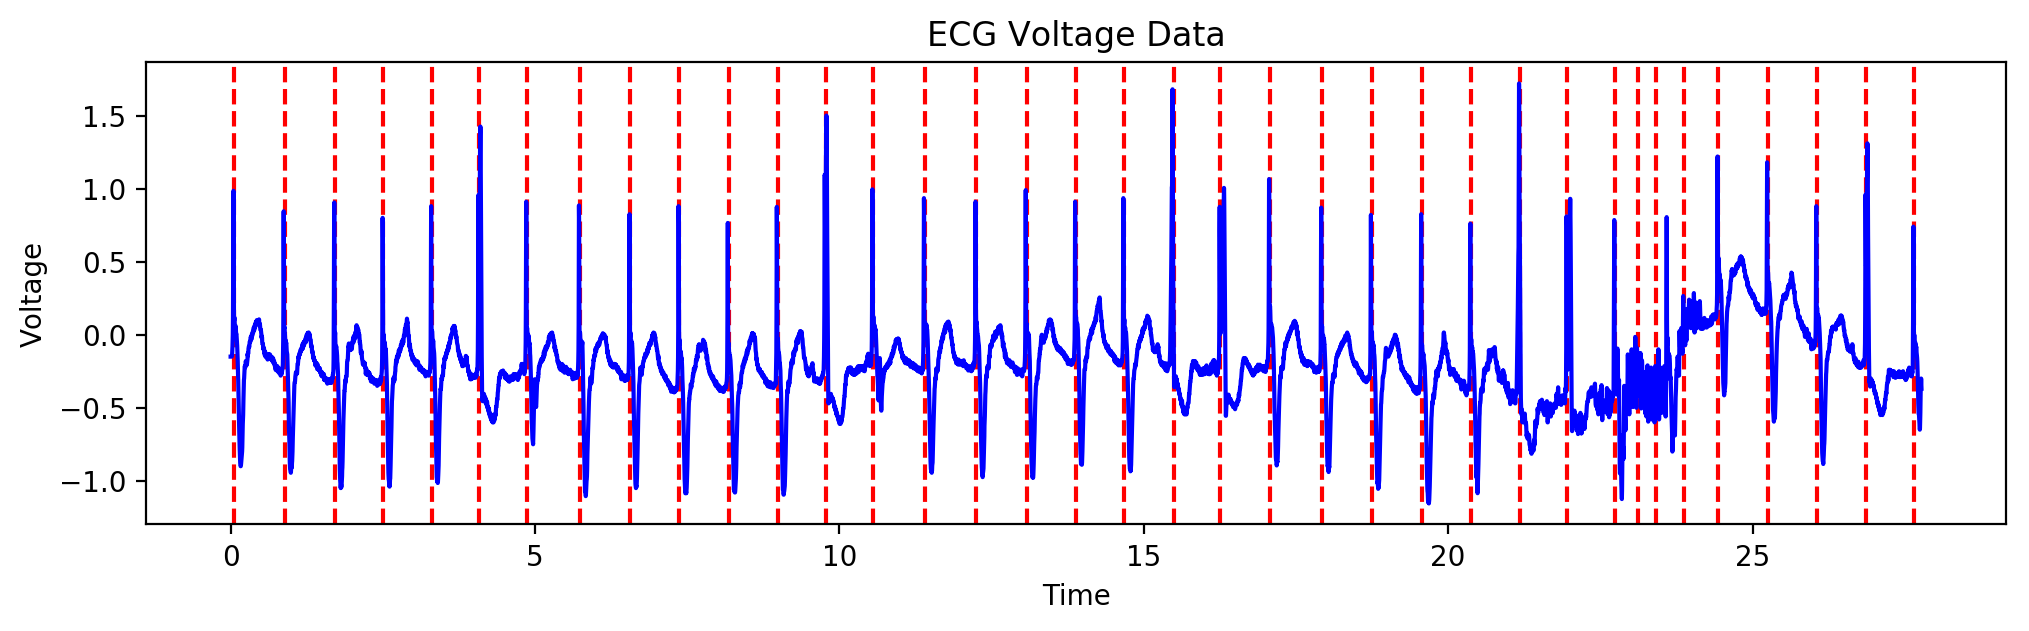
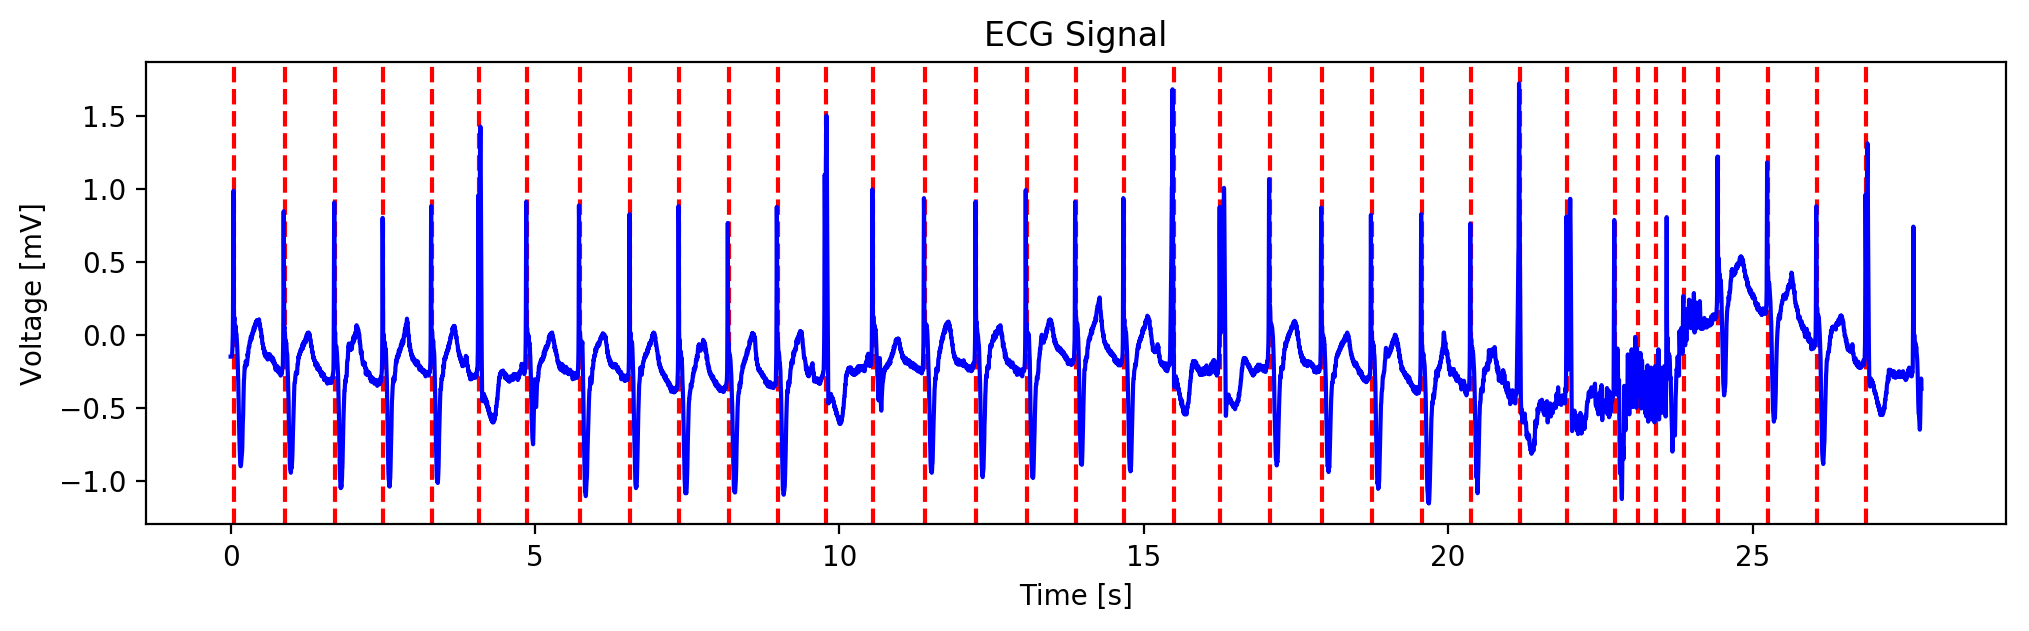
Fix mean hr (#8)
* Fixes some README errors.

* Updated heart rate calculation.
- now produces a binned heart rate vector for mean_hr_bpm

* Patches heart rate calculation so final block is also included.

Changed region(s): [[0.4347, 0.0301, 0.621, 0.0903], [0.0, 0.3312, 0.031, 0.6022], [0.4968, 0.9033, 0.5589, 0.9635]]

diff --git a/hrmonitor.py b/hrmonitor.py
@@ -23,11 +23,13 @@ class HRMonitor:
     """Class for processing ECG data into heart rate parameters
     """
 
-    def __init__(self, file_path, time_units=1):
+    def __init__(self, file_path, time_units=1, voltage_units=1, window_size=10):
         """Reads in ECG data from given csv file and processes it into various attributes
         
         :param file_path: file path to csv file
-        :param time_units: units of time for data (relative to seconds), default is seconds, e.g. for milliseconds, time_units would be 0.001
+        :param time_units: units of time for data (relative to seconds), default is 1, e.g. for milliseconds, time_units would be 0.001
+        :param voltage_units: units of voltage for data (relative to mV), default is 1, e.g. for volts, voltage_units would be 1000
+        :param window size for heart rate calculation, in units of seconds (see self.get_mean_hr()), defaults to 10 seconds
         """
         # setup logging
         logging.basicConfig(**logging_config)
@@ -40,15 +42,19 @@ class HRMonitor:
         self.path = dh.path
 
         # validate data and get time/voltage lists
+        self.time_units = time_units
+        self.voltage_units = voltage_units
         (self.time, self.voltage) = self.parse_data(self.data)
-        
+
         # determine basic attributes
         self.voltage_extremes = self.get_voltage_extremes()
-        self.duration = self.get_duration() * time_units
+        self.duration = self.get_duration()
 
-        # interval attributes
-        self.peak_interval = self.get_peak_interval() * time_units
-        self.mean_hr_bpm = 60 / self.peak_interval
+        # first get interval over entire signal
+        (self.peak_interval, self.interval_loc) = self.get_peak_interval(self.voltage)
+
+        # then, get the heart rate over pre-specified chunks of time
+        self.mean_hr_bpm = self.get_mean_hr(window_size)
 
         # beat position attributes
         self.peaks = self.locate_peaks()
@@ -57,7 +63,8 @@ class HRMonitor:
             self.beats = self.time[self.peaks]
         self.num_beats = self.beats.size
         
-        self.export_JSON('{}.json'.format(self.path))  # export data
+        # export data
+        self.export_JSON('{}.json'.format(self.path))
         self.logger.info('HRMonitor object created.')
 
     @staticmethod
@@ -128,11 +135,11 @@ class HRMonitor:
         return (float(line[0]), float(line[1]))
 
     def parse_data(self, data):
-        """Validate and sanitize input data, parse valid lines as floats
+        """Validate and sanitize input data, parse valid lines as floats, also performs unit standardization
         
         :param data: list containing the input data to check
         :raises ValueError: if data is empty
-        :return: tuple of numpy arrays (time, voltage)
+        :return: tuple of numpy arrays (time [s], voltage [mV])
         """
         self.logger.info('Validating data...')
         
@@ -157,7 +164,8 @@ class HRMonitor:
             self.logger.warn('Voltage values outside of typical range of (-300, 300) mV.')
 
         self.logger.info('Data parsed. No errors found.')
-        return (np.asarray(time), np.asarray(voltage))
+        return (np.asarray(time) * self.time_units,
+                np.asarray(voltage) * self.voltage_units)
 
     @staticmethod
     def moving_avg(data, n):
@@ -174,14 +182,14 @@ class HRMonitor:
         cs[n:] = cs[n:] - cs[:-n]
         return cs[n - 1:] / n
 
-    def get_peak_interval(self):
-        """Determines interval between peaks using auto-correlation, reported in units of the time-scale.
+    def get_peak_interval(self, data):
+        """Determines interval between peaks using auto-correlation
         
-        :return: interval between ECG peaks
+        :param data: data interval to process into heart
+        :return: tuple containing (interval size between ECG peaks in seconds, array index of interval location)
         """
         self.logger.info('Calculating interval between peaks...')
         # calculate autocorrelation and square the data
-        data = self.voltage
         raw_corrl = np.correlate(data, data, mode='full')
         correl = raw_corrl[raw_corrl.size // 2:]
         sq_cor = np.square(correl)
@@ -197,10 +205,36 @@ class HRMonitor:
                 break
 
         # find position of 2nd peak to get interval between peaks
-        self.interval_loc = after_peak + np.argmax(sq_cor[after_peak:], axis=0)
-        interval_val = self.time[self.interval_loc]
+        interval_loc = after_peak + np.argmax(sq_cor[after_peak:], axis=0)
+        interval_val = self.time[interval_loc]
         self.logger.info('Interval between peaks is {}.'.format(interval_val))
-        return interval_val
+        return (interval_val, interval_loc)
+
+    def get_mean_hr(self, window_size):
+        """Determines heart rate (bpm) for block chunks
+        
+        :param window_size: size of window to determine heart rate for
+        :return: numpy vector of heart rate for each block interval
+        """
+
+        self.logger.info('Calculating mean heart rate...')
+        heart_rates = []
+        prev_index = 0
+        prev_time = self.time[prev_index]
+        for i, time in enumerate(self.time):
+            if(time >= window_size + prev_time or i == len(self.time) - 1):
+                (int_val, int_loc) = self.get_peak_interval(
+                    self.voltage[prev_index:i])
+
+                heart_rate = (60 / int_val).round(5)
+                heart_rates.append(heart_rate)
+
+                prev_index = i
+                prev_time = time
+        
+        self.logger.info(
+            'Heart rates determined for {} blocks'.format(len(heart_rates)))
+        return np.asarray(heart_rates)
 
     def locate_peaks(self):
         """Locates the heart beats in the signal
@@ -277,9 +311,9 @@ class HRMonitor:
                             linestyle='--')
 
         plt.plot(self.time, self.voltage, 'b-')
-        plt.xlabel('Time')
-        plt.ylabel('Voltage')
-        plt.title('ECG Voltage Data')
+        plt.xlabel('Time [s]')
+        plt.ylabel('Voltage [mV]')
+        plt.title('ECG Signal')
 
         plt_path = '{}.png'.format(self.path)
         plt.savefig(plt_path,
@@ -295,7 +329,7 @@ class HRMonitor:
         # first, create a dict with the attributes
         dict_with_data = {
             'peak_interval': round(self.peak_interval, 3),
-            'mean_hr_bpm': round(self.mean_hr_bpm, 3),
+            'mean_hr_bpm': self.mean_hr_bpm.tolist(),
             'voltage_extremes': self.voltage_extremes,
             'duration': self.duration,
             'num_beats': self.num_beats,

diff --git a/test_HRMonitor.py b/test_HRMonitor.py
@@ -66,14 +66,8 @@ def test_json():
     HRMonitor(input_path)
     assert os.path.isfile(json_path)
 
-    json_values = dict({
-        "peak_interval": 6.0,
-        "mean_hr_bpm": 10.0,
-        "voltage_extremes": [0.0, 0.9],
-        "duration": 5.0,
-        "num_beats": 0,
-        "beats": []
-    })
+    json_values = {"peak_interval": 6.0, "mean_hr_bpm": [12.0], "voltage_extremes": [
+        0.0, 0.9], "duration": 5.0, "num_beats": 0, "beats": []}
 
     # make sure that the json values are the same
     with open(json_path, 'r') as f:
@@ -146,3 +140,7 @@ def test_broken_files(caplog):
         with pytest.raises(RuntimeError):
             HRMonitor(os.path.join(test_dir, 'broken_int{}.csv'.format(i)))
         assert 'Interpolated repair failed for line {}'.format(i + 1) in caplog.text
+
+if __name__ == '__main__':
+    from hrmonitor import HRMonitor
+    hr = HRMonitor(get_test_file(5))

diff --git a/README.md b/README.md
@@ -31,7 +31,14 @@ Which produces the following files:
 
 `./test_data/test_data5.json`:
 ```json
-{"peak_interval": 0.808, "mean_hr_bpm": 74.257, "voltage_extremes": [-1.155, 1.72], "duration": 27.775, "num_beats": 36, "beats": [0.061, 0.886, 1.714, 2.511, 3.306, 4.081, 4.869, 5.736, 6.564, 7.372, 8.181, 8.986, 9.772, 10.556, 11.403, 12.25, 13.075, 13.886, 14.678, 15.489, 16.258, 17.072, 17.928, 18.742, 19.569, 20.378, 21.178, 21.958, 22.742, 23.111, 23.411, 23.875, 24.436, 25.253, 26.058, 26.867]}
+{
+    "peak_interval": 0.808,
+    "mean_hr_bpm": [74.25743, 73.71007, 74.25743],
+    "voltage_extremes": [-1.155, 1.72],
+    "duration": 27.775,
+    "num_beats": 36,
+    "beats": [0.061, 0.886, 1.714, 2.511, 3.306, 4.081, 4.869, 5.736, 6.564, 7.372, 8.181, 8.986, 9.772, 10.556, 11.403, 12.25, 13.075, 13.886, 14.678, 15.489, 16.258, 17.072, 17.928, 18.742, 19.569, 20.378, 21.178, 21.958, 22.742, 23.111, 23.411, 23.875, 24.436, 25.253, 26.058, 26.867]
+}
 ```
 `./test_data/test_data5.png`:
 ![Beats detected by HRMonitor](./example.png)
@@ -39,22 +46,26 @@ Which produces the following files:
 ### Some important usage notes
 - Input ECG data should be in `.csv` format.
 - Only two float values should be present on each line of the `.csv`, in this order: `time, voltage`.
-- The units for time should be specified by setting the `time_units` argument in the HRMonitor constructor function.
-    - The default units is seconds.
-    - `time_units` is a float representing the new unit of time in terms of seconds.
-    - For example, if the units were milliseconds, you would specify this as:
+- Time units are assumed to be continuous, i.e. with roughly the same interval between every time entry.
 - Example ECG files can be found in the `test_data/` directory.
- 
+- The data units can be specified by setting the `time_units` and `voltage_units` arguments in the HRMonitor constructor function.
+    - The default units are seconds and mV.
+    - `time_units` is a float representing the new unit of time in terms of seconds.
+    - `voltage_units` is a float representing the new unit of time in terms of seconds.
+    - For example, if the units were milliseconds and volts, you would specify this as:
 ```python
-HRMonitor('./file.csv', time_units = 0.001)
+HRMonitor('./file.csv', time_units = 0.001, voltage_units = 1000)
 ```
 
 ## Features
 - Calculates several class attributes from the data:
   - `time`: numpy vector of the time data
   - `voltage`: numpy vector of the voltage data
-  - `peak_interval`: interval between peaks in seconds, as estimated via autocorrelation of the signal
-  - `mean_hr_bpm`: average heart rate (in bpm) over the signal
+  - `peak_interval`: interval between all peaks in the signal, as estimated via autocorrelation of the signal (in seconds)
+  - `mean_hr_bpm`: numpy vector containing the average heart rate (in bpm) for contiguous bins with a size specified by the user
+    - default chunk size is 10 seconds
+    - calculated by obtaining `peak_interval` over chunks of the data
+    - this can be recalculated by running the `get_mean_hr(<window_size>)` function, where `window_size` is the size of the chunks in seconds
   - `voltage_extremes`: tuple of the (min, max) of the voltage data
   - `duration`: total length of the signal in seconds
   - `beats`: numpy array with the approximate time locations of heart beats via peak detection following a bandpass filter
